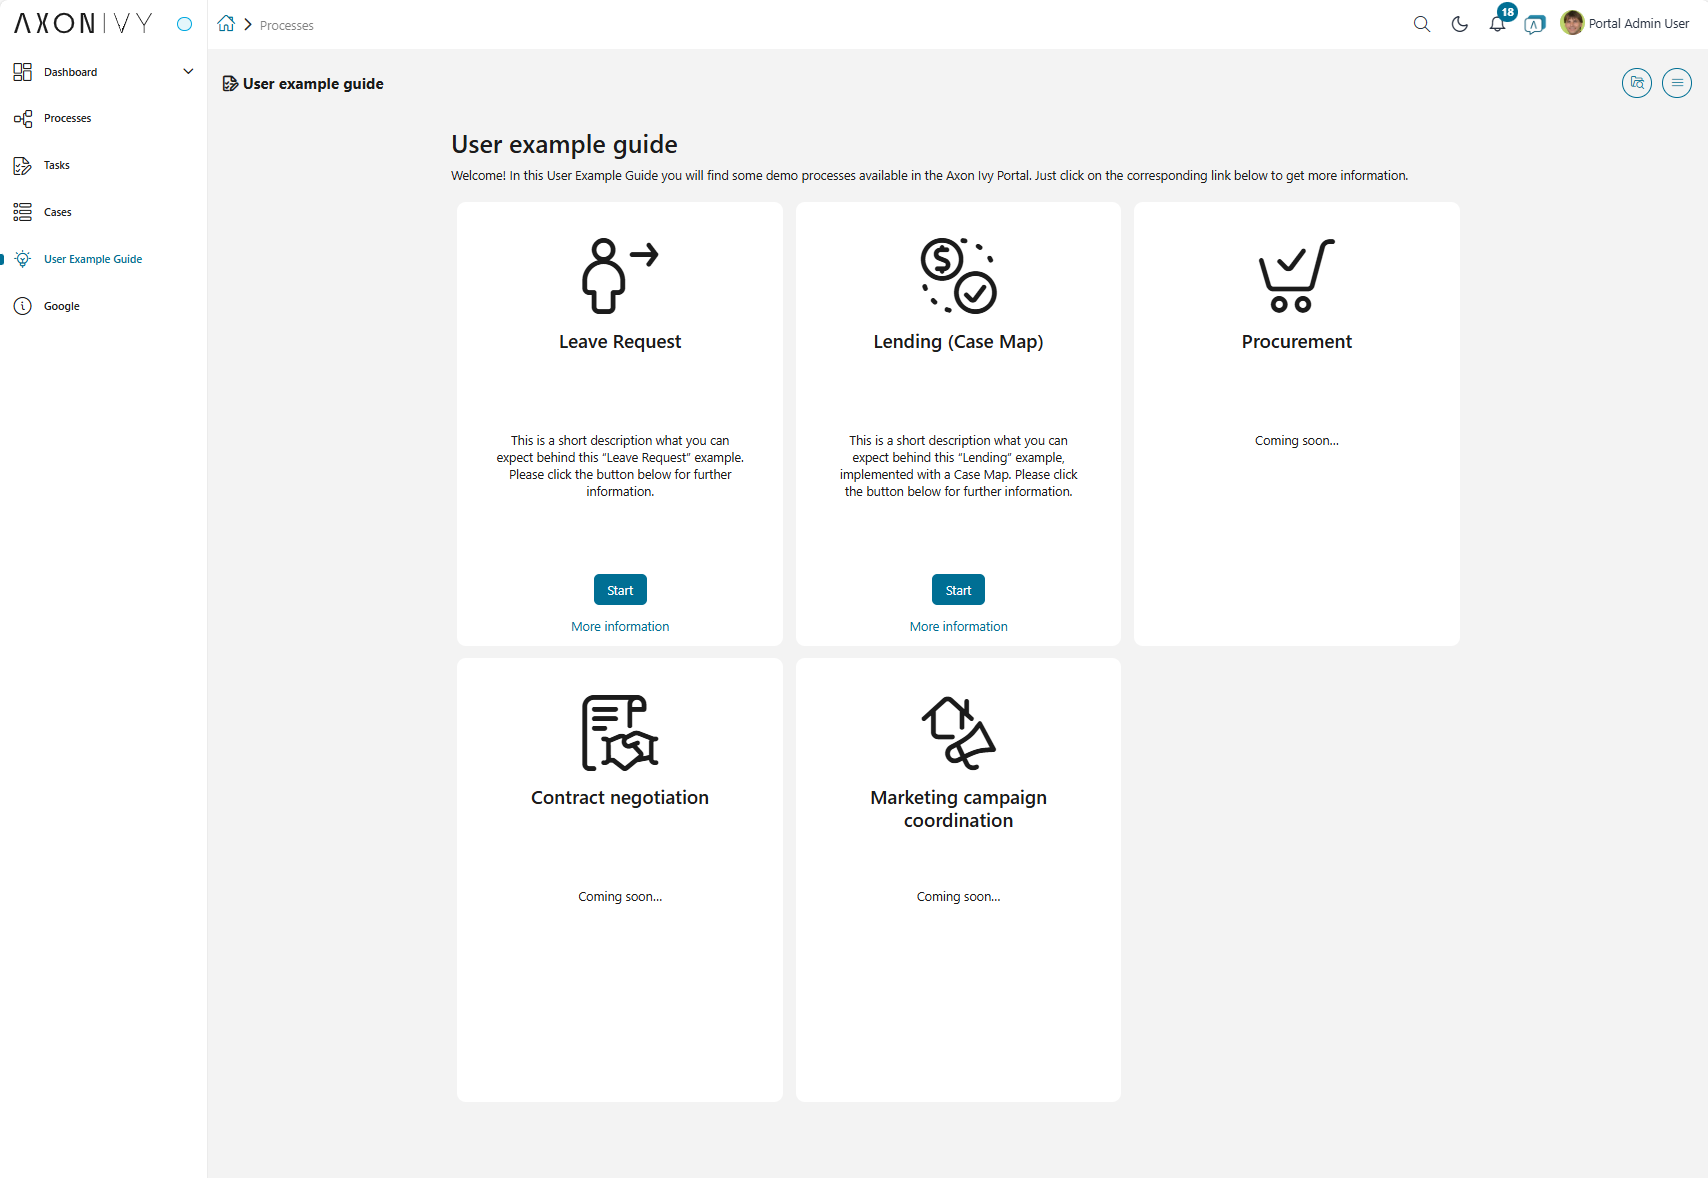
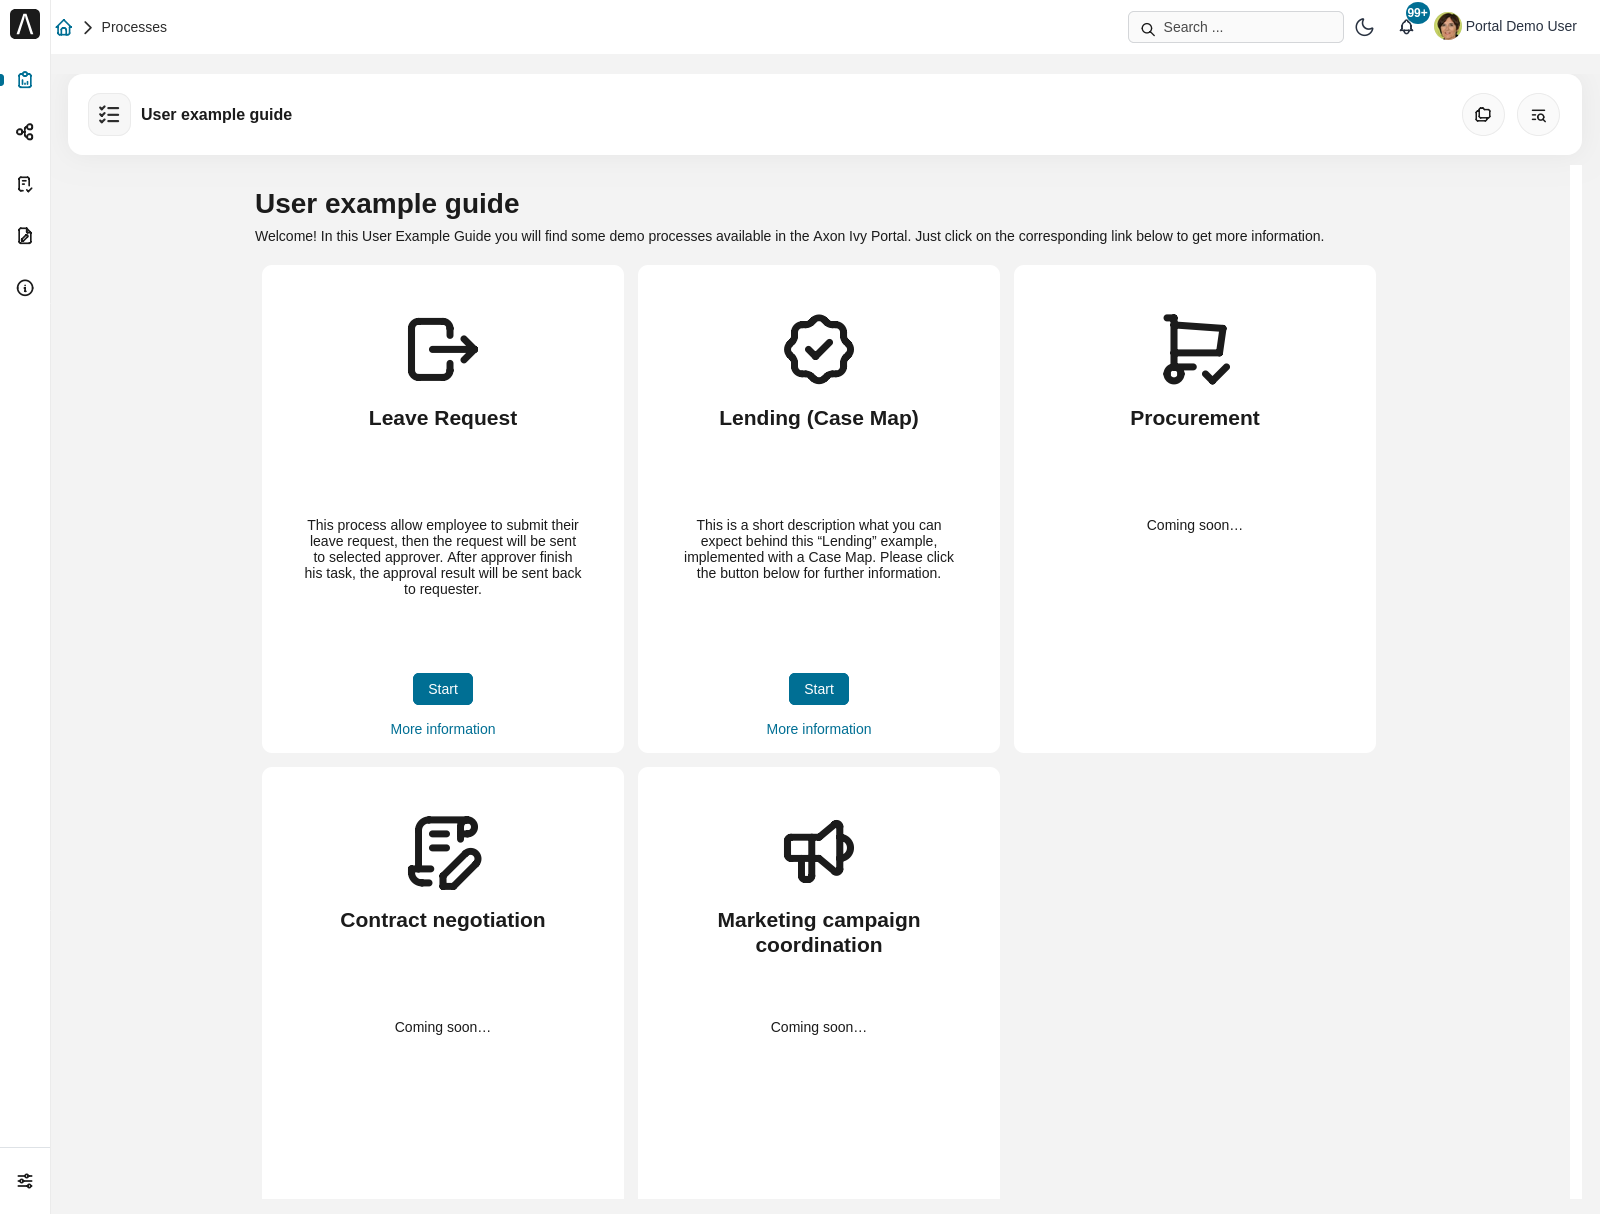
- update market portal information page - update images

diff --git a/AxonIvyPortal/portal-product/README.md b/AxonIvyPortal/portal-product/README.md
@@ -1,15 +1,19 @@
 # Axon Ivy Portal
-**Axon Ivy Portal** is the centerpiece for your daily work with the applications you / your company implemented using the **Axon Ivy Platform**. 
-With a web-based, modern interface the Portal provides you with key functionalities on all your devices:
+**Axon Ivy Portal** is your centralized entry point for working with business applications built on the **Axon Ivy Platform**.
 
-* Access your / your company's applications and start new cases
-* Manage and fulfill tasks assigned to you or your roles
-* Understand what is going on by using on-the-spot statistics and historic data on all your cases and tasks
-* Improve your Axon Ivy Portal experience and efficiency through the built-in customization options
+Designed for both end users and business teams, the Portal streamlines your daily operations through an intuitive, web-based interface that runs seamlessly across desktop and mobile devices.
+
+With the Portal, you can:
+
+* **Start new business processes** quickly through the **Process List Widget** — launch workflows with just a few clicks.
+* **Manage cases** through the **Case List Widget** — view, track, and follow up on all process instances you are involved in.
+* **Work on your tasks** using the **Task List Widget** — easily view pending assignments, deadlines, and priorities.
+* **Analyze your workload** via the **Statistics Widget** — monitor performance and uncover trends with charts and metrics.
+* **Customize your workspace** — configure dashboards and widgets to fit your working style and preferences.
+
+The **Axon Ivy Portal** is built with extensibility and customization in mind. From personalized dashboards to deep integration with your business logic, you can tailor the Portal to meet the needs of individuals, teams, and departments.
 
 ![Portal](images/portal.png)
-
-
 
 ## Demo
 
@@ -29,9 +33,13 @@ See **Portal Header** for details.
 
 ![axon-ivy-portal-header](images/axon-ivy-portal-header.png)
 
-* The menu on the left side is always available and gives you access to all **processes**, **cases**, **tasks**, and other features of the **Axon Ivy Portal**.
-If the menu is minimized, you could hover to the menu to enlarge it.
-You may enlarge permanently the menu by clicking on the pin-icon icon in the top left corner. In the center you see **your personal dashboard** providing you instant access to **your processes**, **cases**, **tasks**, and performance indicators.
+* The **Sidebar** on the left side gives you access to the **Processes**, **Cases**, **Tasks**, and **Portal Configuration** pages.
+Administrators can configure the sidebar to use one of three behaviours: **Hover**, **Click**, or **Stick**.
+In the default **Hover** mode, the sidebar has two states:
+  * **Minimized**: Hover over the sidebar to temporarily expand it.
+  * **Pinned**: Click the pin icon in the top-left corner to keep the sidebar permanently expanded.
+
+* The **main content area** in the center shows **your personal dashboard** with your **processes**, **cases**, **tasks**, and performance indicators.
 
 ![Portal](images/portal.png)
 
@@ -41,7 +49,13 @@ Just click on the corresponding link below to get more information.
 
 ![user-example-demo](images/user-example-demo.png)
 
+### Sample dashboards
+With **Portal User Examples**, the Portal provides two sample dashboards in the top menu:
 
+* **User Guide Dashboard**: introduces the standard dashboard widgets (welcome, process, case, task, and statistic widgets) with short explanations for each of them.
+See **Portal Guide > User Guide > Dashboard** for details.
+* **KPI Procurement Overview**: demonstrates the Custom Statistics Widgets, which visualize KPIs of procurement processes in a fully customizable way.
+See **Portal Guide > User Guide > Statistic Chart > Sample: KPI Procurement Overview** for details.
 
 ## Setup
 
